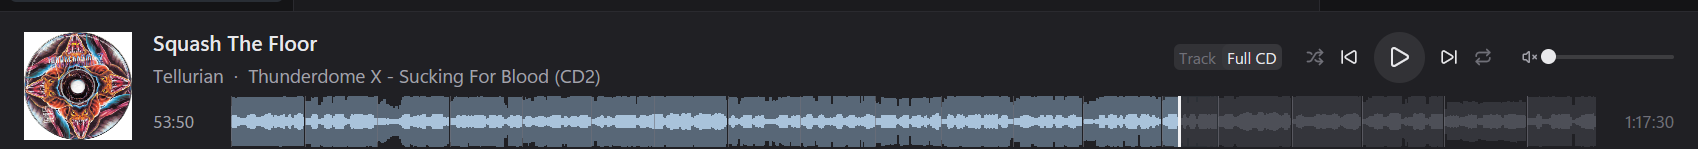
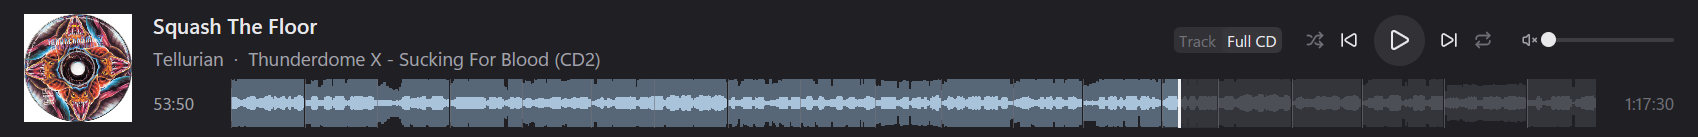
fix(player): keep waveform visible in compact dock layouts

Changed region(s): [[0.0, 0.0876, 0.9988, 0.9927], [0.6867, 0.2336, 0.9988, 0.438]]

diff --git a/src/player.rs b/src/player.rs
@@ -74,6 +74,7 @@ pub struct Player {
     pub volume: f32,
     muted_from: Option<f32>,
     level_bounds: Rc<Cell<Bounds<Pixels>>>,
+    panel_height: Rc<Cell<Option<Pixels>>>,
     scrub: Option<f32>,
     seek_bounds: Rc<Cell<Bounds<Pixels>>>,
     source_info: artwork::MediaInfo,
@@ -127,6 +128,7 @@ impl Player {
             volume,
             muted_from: None,
             level_bounds: Default::default(),
+            panel_height: Default::default(),
             scrub: None,
             seek_bounds: Default::default(),
             source_info: Default::default(),
@@ -409,7 +411,9 @@ impl Render for Player {
         let shown_position = self.scrub.map_or(position, |f| f64::from(f) * duration);
 
         let mut art = div()
-            .size(px(72.))
+            .h(relative(0.9))
+            .max_h(px(72.))
+            .aspect_square()
             .flex_shrink_0()
             .overflow_hidden()
             .rounded(px(6.))
@@ -669,10 +673,24 @@ impl Render for Player {
                 .child(clock(t))
         };
 
-        h_flex()
-            .id("player")
-            .size_full()
-            .min_h(px(96.))
+        let height = self.panel_height.clone();
+        let player = cx.entity_id();
+        // The dock can clip its 100px minimum panel in a shorter window.
+        // Measure the visible slot independently of the player content.
+        let measure = canvas(
+            move |b, w, _| {
+                let h = b.intersect(&w.content_mask().bounds).size.height;
+                if h > px(0.) && height.replace(Some(h)) != Some(h) {
+                    w.on_next_frame(move |_, cx| cx.notify(player));
+                }
+            },
+            |_, _, _, _| {},
+        )
+        .absolute()
+        .size_full();
+        let content = h_flex()
+            .w_full()
+            .h(self.panel_height.get().unwrap_or(px(100.)))
             .bg(m.raised)
             .px(px(16.))
             .gap(px(14.))
@@ -682,11 +700,15 @@ impl Render for Player {
                 v_flex()
                     .flex_1()
                     .min_w_0()
+                    .h_full()
+                    .max_h(px(80.))
+                    .justify_center()
                     .gap(px(4.))
                     .child(
                         h_flex()
                             .w_full()
                             .gap(px(12.))
+                            .flex_shrink_0()
                             .items_center()
                             .child(
                                 v_flex()
@@ -727,11 +749,21 @@ impl Render for Player {
                         h_flex()
                             .w_full()
                             .gap(px(8.))
+                            .flex_1()
+                            .min_h_0()
+                            .max_h(px(34.))
                             .items_center()
                             .child(time(shown_position).text_color(m.text_muted))
                             .child(seek)
                             .child(time(duration).text_right()),
                     ),
-            )
+            );
+        div()
+            .id("player")
+            .relative()
+            .size_full()
+            .bg(m.raised)
+            .child(measure)
+            .child(content)
     }
 }

diff --git a/src/player_wave.rs b/src/player_wave.rs
@@ -234,7 +234,7 @@ impl Player {
             .relative()
             .flex_1()
             .min_w_0()
-            .h(px(34.))
+            .h_full()
             .overflow_hidden()
             .child(
                 canvas(

diff --git a/docs/musical-timeline.md b/docs/musical-timeline.md
@@ -8,6 +8,10 @@ These Windows captures show the same paused position in chapter 14 of *Thunderdo
 
 ![Full CD perspective, 53:50 into a 1:17:30 CD](evidence/full-cd-perspective.png)
 
+At 150% Windows scaling the same player fits the minimum 720 × 460 logical client area. The waveform takes the height available beneath the controls as the dock resizes.
+
+![Compact Full CD player at minimum window size](evidence/compact-cd-perspective.png)
+
 ### Navigation and source ownership
 
 - Dragging previews a position. Releasing commits one occurrence-scoped seek. In Full CD, a destination must belong to the contiguous authored sequence around the current queue entry. Hover text identifies chapters outside that sequence. **Continue This CD** explicitly adds the following chapters when wanted.
@@ -28,13 +32,15 @@ Measurements used an optimized native player with isolated profiles. The primary
 | Cold request to first verified chapter geometry / first canvas paint | 55.899 ms / 68.793 ms |
 | Warm application reopen to first geometry / paint, timed from waveform request | 68.435 ms / 81.026 ms |
 | Player synchronization at natural chapter 14 → 15 | 11 µs |
-| Final build, 32 paused and 32 playing switches | 0 playback commands, decoder opens or voice creations in all switch intervals. Maximum handler time 3 µs |
+| Isolated run, 32 paused and 32 playing switches | 0 playback commands, decoder opens or voice creations in all switch intervals. Maximum handler time 3 µs |
 | Physical page reuse on this CD | Cold 1,163 pages decoded and 19 shared reads. Warm 1,182 reads and zero decoded pages |
 | Peak retained player waveform geometry | 733,416 bytes |
 | Peak Windows working-set increase over fresh optimized analysis-test process baseline | 8.55 MiB cold, 4.33 MiB warm, including SQLite, decoder, allocator and retained shapes |
 | Coordinate error in the four-rate integration fixture | 0 frames across 220,136 frames and 12 segments |
 
 A second run separated the switch bursts from an explicit paused seek from chapter 15 to 14 and a subsequent Play. The seek preserved pause. Only Play opened a voice. [Isolated switch counters](evidence/switch-windows.csv)
+
+The final compact-layout run repeated both bursts after resizing through 1720 × 1060, 1280 × 820 and 1102 × 701 physical window sizes. All 65 perspective changes kept occurrence 35. The switch intervals contained zero playback commands, opens or voice starts. Maximum switch-to-paint time was 13.757 ms to Full CD and 12.865 ms to Track. [Final optimized Windows trace](evidence/compact-window-switches.csv)
 
 Canvas paint measures application work through the paint callback. Display presentation and hardware output latency require separate instrumentation. The memory probe loaded the same complete disc through the production analysis function and kept the latest projections for every chapter. Its process peak working sets were 17,920,000 bytes cold and 13,496,320 bytes warm.
 
